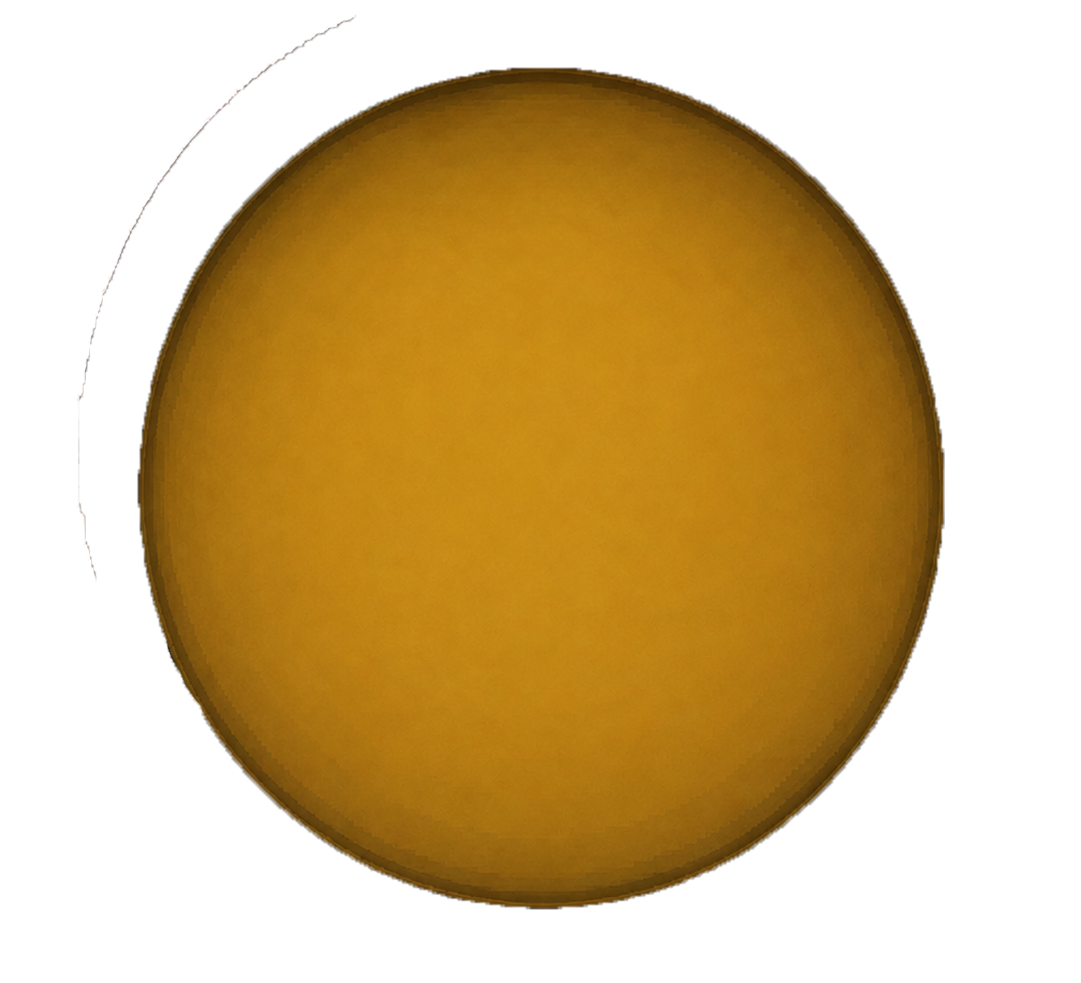
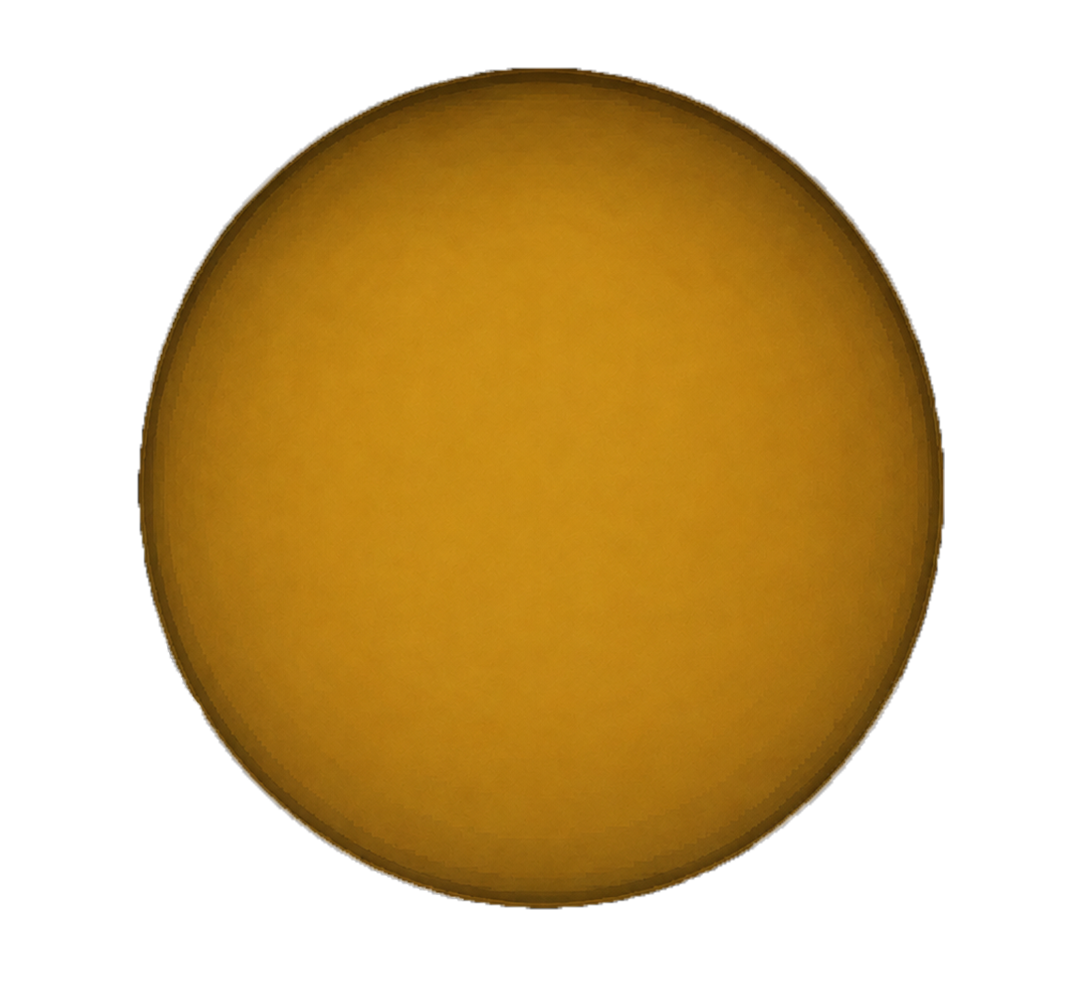
E6 튀김 연출 반영

diff --git a/tools/build-minigame-art-webp.js b/tools/build-minigame-art-webp.js
@@ -314,11 +314,13 @@ const FILES = [
      ⚠ **둘 다 원본 배율 그대로입니다(size:null).** 2배율은 1240x1127 인데 마스터가
         1081x983 (1.74배) 뿐입니다. 늘리면 없던 화소를 지어내는 셈이라 그대로 둡니다
         (ui_play_tray_wood · E3 화구와 같은 판단입니다).
-     ⚠ 기름막만 **잘라 냅니다.** 납품본 왼쪽 위(x 77~138 · y 14~68)에 기름 원 밖으로
-        삐져나온 가느다란 획이 하나 있는데, 이 장을 반투명으로 덮으면 그 획이 냄비
-        쇠테를 가로지르는 실금으로 그대로 보입니다. 기름 원의 알파 자리
-        [139, 69, 804x837] 만 남기면 사라지고, 덤으로 화면 상자(.fry-pot)와 그림이
-        1:1 이 되어 CSS 쪽도 inset:0 한 줄로 끝납니다. */
+     ⚠ 기름막만 **기름 원 자리 [139, 69, 804x837] 로 잘라 냅니다.** 그래야 화면
+        상자(.fry-pot)와 그림이 1:1 이 되어, 냄비 그림처럼 밖으로 넘기는 계산 없이
+        CSS 쪽이 inset:0 한 줄로 끝납니다. 잘리는 것은 원 둘레의 안티에일리어싱
+        2px 뿐입니다(화면에서 1.1px).
+        새 납품본을 받으면 **이 자리부터 다시 재세요** — 여기가 어긋나면 기름은
+        멀쩡한데 튀김 놓이는 자리만 밀립니다. 재는 법은 알파가 꽉 찬(>200) 화소의
+        가로 최장 구간과 그 구간이 있는 줄의 범위입니다. */
   { file:"E6/fix_fry_pot_oil_smooth.png", size:null, css:".fry-pot 461x479.9 안의 기름 타원 기준 (냄비 전체 619.8x563.6 · 원본 배율 유지)" },
   { file:"E6/fix_fry_oil_smooth_01.png",  size:null, crop:[139,69,804,837],
     css:".fry-pot 461x479.9 를 그대로 덮음 (튀김 위에 반투명으로 얹는 기름막)" },
